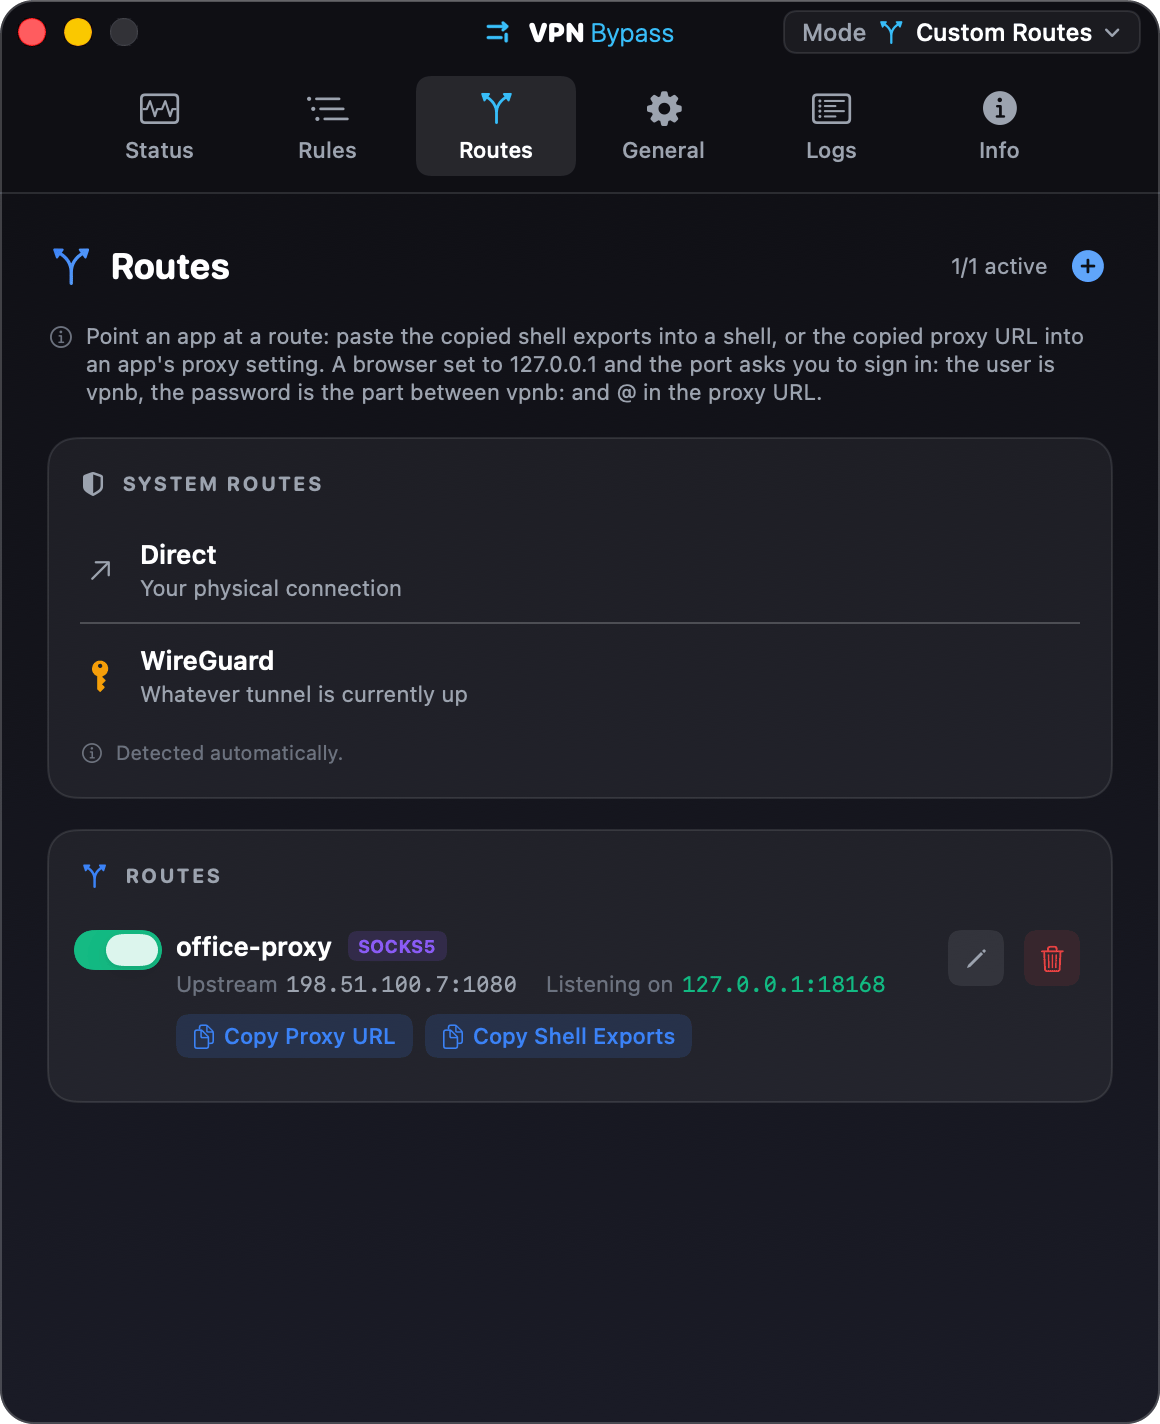
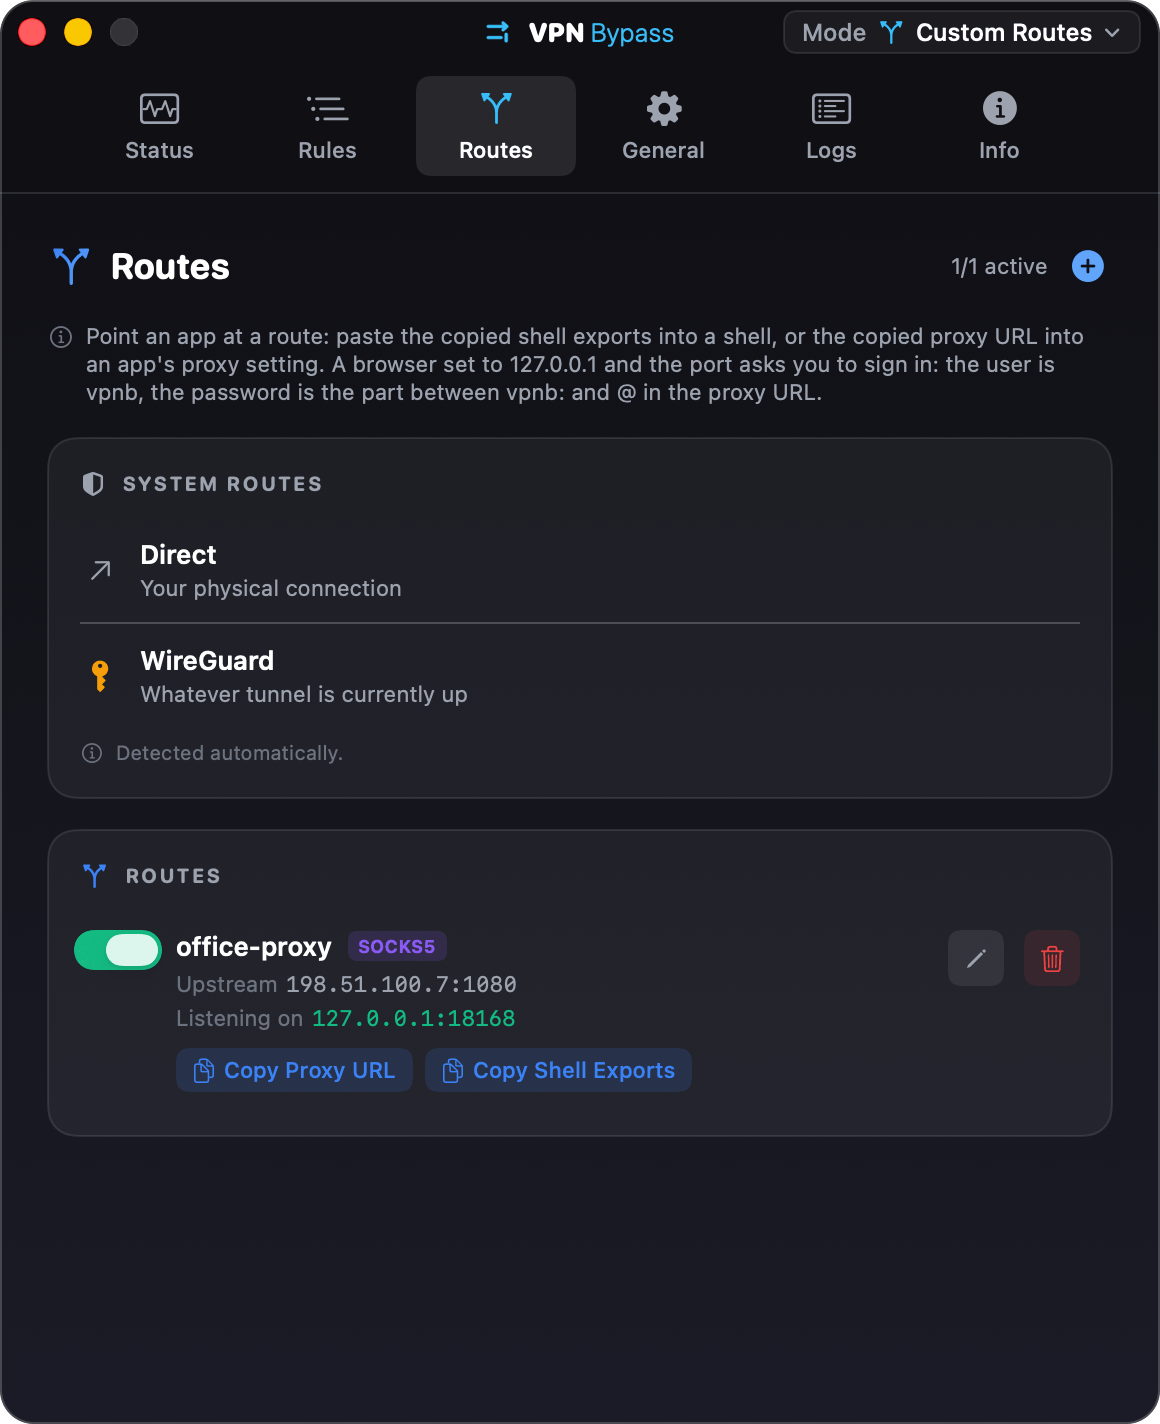
fix(routes): keep a proxy route's upstream address on one line (#157)
The Routes card put Upstream and Listening on side by side, so an upstream longer than about 17 characters wrapped mid-address. The listener now has its own line, and an upstream too long for any line is cut in the middle with its full value in the tooltip.

Fixes #153

Changed region(s): [[0.1552, 0.6798, 0.6207, 0.7725], [0.6828, 0.6798, 0.7759, 0.7107]]

diff --git a/Tests/VPNBypassTests/RouteRowUpstreamLayoutTests.swift b/Tests/VPNBypassTests/RouteRowUpstreamLayoutTests.swift
@@ -1,0 +1,71 @@
+// RouteRowUpstreamLayoutTests.swift
+// The Routes page's proxy card keeps its upstream address on one line (issue #153). The
+// upstream used to share a line with "Listening on 127.0.0.1:<port>", so one longer than
+// about 17 characters wrapped mid-address. Rows are drawn offscreen at the width the
+// Settings window gives them, with a fixed listener port; nothing is routed or listened on.
+
+import AppKit
+import SwiftUI
+import XCTest
+@testable import VPNBypassCore
+
+@MainActor
+final class RouteRowUpstreamLayoutTests: XCTestCase {
+
+    /// The width a route row gets: the 580 pt window, less the page's 24 pt padding and
+    /// the Routes card's 16 pt padding on each side.
+    private static let rowWidth: CGFloat = 580 - 2 * 24 - 2 * 16
+
+    private func row(host: String, port: Int = 1080) -> RouteRow {
+        let route = Route(name: "office-proxy", egress: .proxySOCKS5, proxyHost: host, proxyPort: port,
+                          localListenPort: 18168)
+        return RouteRow(route: route, listenerPort: 18168, onEdit: {}, onDelete: {}, onToggle: { _ in })
+    }
+
+    private func settled<V: View>(_ view: V) -> NSHostingView<V> {
+        let hosting = NSHostingView(rootView: view)
+        for _ in 0..<3 {
+            RunLoop.main.run(until: Date().addingTimeInterval(0.02))
+            hosting.layoutSubtreeIfNeeded()
+        }
+        return hosting
+    }
+
+    /// Height of the row at the Settings width: one more text line when the upstream wraps.
+    private func height(host: String) -> CGFloat {
+        settled(row(host: host).frame(width: Self.rowWidth)).fittingSize.height
+    }
+
+    /// Width the row asks for with nothing cut or wrapped.
+    private func idealWidth(host: String) -> CGFloat {
+        settled(row(host: host).fixedSize()).fittingSize.width
+    }
+
+    private let shortHost = "10.0.0.1"
+    private let longHosts = [
+        "2001:db8:85a3::8a2e:370:7334",          // IPv6, shown as 2001:db8:85a3::8a2e:370:7334:1080
+        "egress-proxy.eu-west-1.corp.example.com", // shown as ...example.com:1080, 44 characters
+    ]
+
+    func testALongUpstreamStaysOnOneLine() {
+        let base = height(host: shortHost)
+        for host in longHosts {
+            XCTAssertEqual(height(host: host), base, accuracy: 1,
+                           "\(host):1080 draws on more lines than a short upstream")
+        }
+    }
+
+    func testALongUpstreamIsShownWhole() {
+        for host in longHosts {
+            XCTAssertLessThanOrEqual(idealWidth(host: host), Self.rowWidth,
+                                     "\(host):1080 does not fit the row, so part of it is cut or wrapped")
+        }
+    }
+
+    /// A host name too long for any line is cut, never wrapped.
+    func testAnUpstreamLongerThanTheRowIsCutNotWrapped() {
+        let host = "a-very-long-upstream-proxy-host-name.eu-west-1.internal.corp.example.com"
+        XCTAssertGreaterThan(idealWidth(host: host), Self.rowWidth, "control: this host is wider than the row")
+        XCTAssertEqual(height(host: host), height(host: shortHost), accuracy: 1)
+    }
+}

diff --git a/Sources/VPNBypassCore/RoutesTab.swift b/Sources/VPNBypassCore/RoutesTab.swift
@@ -455,15 +455,22 @@ struct RouteRow: View {
 
     /// Proxy and Tailscale-peer routes: where the route goes, the local address an
     /// app points at, and one button per thing a user copies.
+    /// The upstream and the listener sit on two lines: side by side, an upstream
+    /// longer than about 17 characters wrapped mid-address. An upstream too long
+    /// even for its own line is cut in the middle, and its tooltip shows all of it.
     @ViewBuilder
     private var listenerDetails: some View {
-        HStack(spacing: 14) {
+        VStack(alignment: .leading, spacing: 3) {
             HStack(spacing: 4) {
                 Text("Upstream")
                     .foregroundColor(Theme.textTertiary)
+                    .fixedSize()
                 Text(verbatim: upstreamDisplay)
                     .font(.system(size: 11, design: .monospaced))
                     .foregroundColor(Theme.textSecondary)
+                    .lineLimit(1)
+                    .truncationMode(.middle)
+                    .help(Text(verbatim: upstreamDisplay))
             }
             HStack(spacing: 4) {
                 if let port = listenerPort {

diff --git a/docs/CHANGELOG.md b/docs/CHANGELOG.md
@@ -20,6 +20,7 @@ and this project adheres to [Semantic Versioning](https://semver.org/spec/v2.0.0
 - **An edit to a list the current mode does not route leaves the kernel alone.** The settings window shows only the list the current mode routes, but the socket can edit either one. A Bypass entry or a service changed while VPN Only or Custom is active, or a VPN Only entry removed in Bypass mode, no longer touches the kernel, and removing a Bypass entry there keeps a pending DNS retry of the same name, which belongs to a Custom rule. Without this, a script could install a bypass route that VPN Only or Custom does not want, or delete a route that belongs to an entry of the same name on the other list.
 
 ### Fixed
+- **A proxy route's upstream address stays on one line on the Routes page.** The card put "Upstream" and "Listening on" side by side, so an upstream longer than about 17 characters broke mid-address: `198.51.100.20:1080` drew as `198.51.100.20:108` with the `0` on the next line, and most host names are longer than that. The listening address now has its own line under the upstream, which leaves room for an upstream such as `2001:db8:85a3::8a2e:370:7334:1080` or `egress-proxy.eu-west-1.corp.example.com:3128`. An upstream too long even for its own line is cut in the middle with "…", never wrapped, and its tooltip shows the whole address.
 - **The screenshots in the README and the docs show the 5.0 dropdown and Settings window.** Five of the seven were taken before the redesign, so the docs showed a two-way Mode switch, an Active Routes list of addresses, Refresh, Clear and Verify buttons, and a Settings window with the modes as tabs, none of which the app has now. The Domains screenshot was drawn as an inactive window, with grey switches and window buttons. All seven are re-rendered from the real views, drawn as the key window in the dark appearance. A test draws them offscreen with made-up state, and [Development](development.md#screenshots) says how to run it again. The alt text that described the old screens now describes the new ones.
 - **Most strings that had no Spanish or French entry now have one.** 5.0.0 showed 96 strings in English on a Mac set to Spanish or French, because neither file had them. Among them were the notifications that say the helper is not running and to repair it from Settings > Status, the dropdown's "Fix…" button and the warning beside it, the Remove All Routes question, the reasons an apply failed, and most of the Routes and Rules pages in Custom mode. The route and rule editors' field labels and the route name hint went through a plain string, so nothing ever looked them up. They are keys now, and so are the editors' error lines ("Name is required.", "Select a route.") and the helper install errors Settings > Status shows. The route row's type badge, the rule row's match badges and "Choose Route" are still in English. [`scripts/check-localizations.py`](https://github.com/GeiserX/VPN-Bypass/blob/main/scripts/check-localizations.py) collects every localizable string the Swift compiler finds in `Sources/`. It fails when Spanish or French lacks one, or when a translation's placeholders differ from the English ones, and CI runs it on every pull request.
 - **Background checks keep running while a question or a menu is open.** The 30-second status check, the DNS refresh and the 12-hour watchdog ran on timers that macOS holds back while an alert waits for an answer or a menu is open. With the mode switch question left on screen, the app stopped checking the VPN and putting back dropped routes until you clicked a button, and a DNS refresh that came due in that time waited too. The three timers now keep firing while an alert or a menu is open. A mode switch made while one of those checks is still changing routes now waits for it to finish and then puts in the routes for the new mode. Before, it saved the new mode and changed no routes.
